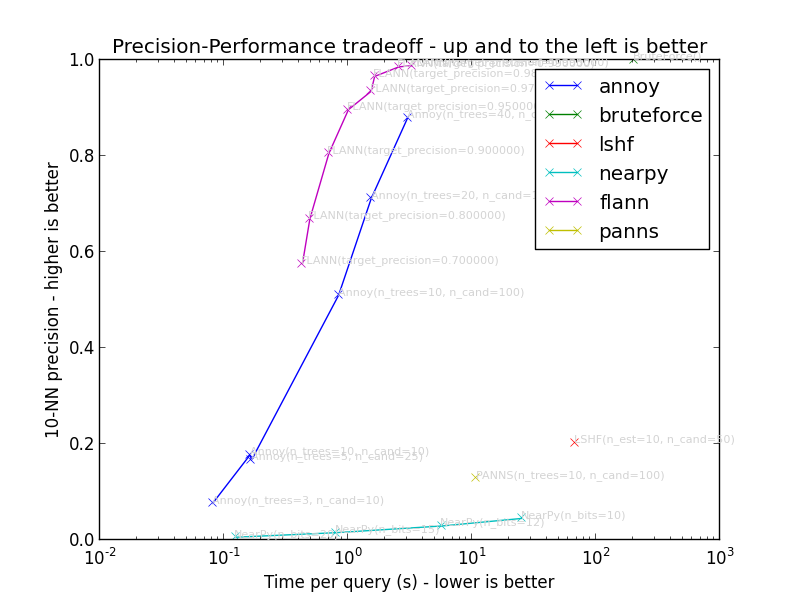
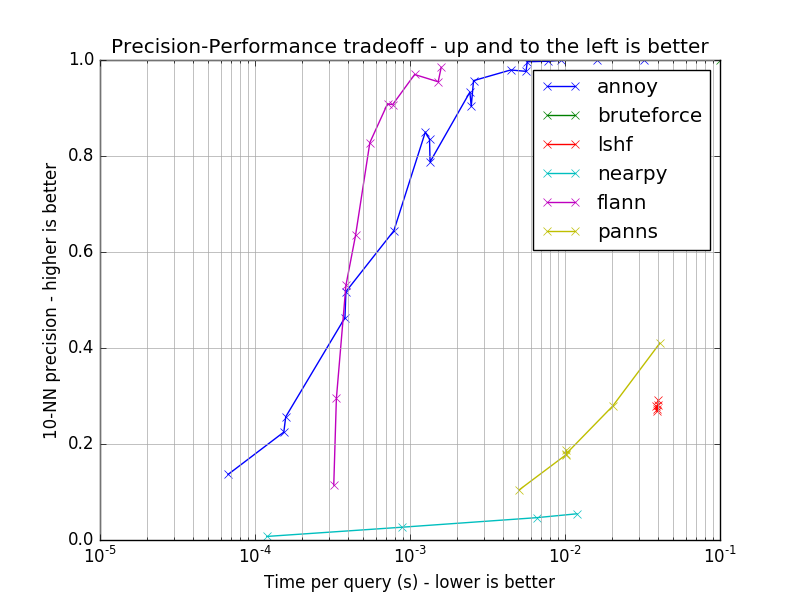
new plot

diff --git a/plot.py b/plot.py
@@ -13,14 +13,15 @@ for algo, data in all_data.iteritems():
     ys = [t[-1] for t in data]
     ls = [t[0] for t in data]
     plt.plot(xs, ys, 'x-', label=algo)
-    for i, l in enumerate(ls):
-        plt.annotate(ls[i], (xs[i], ys[i]), color='lightgray', fontsize=8)
+    #for i, l in enumerate(ls):
+    #    plt.annotate(ls[i], (xs[i], ys[i]), color='lightgray', fontsize=8)
 
 plt.gca().set_xscale('log')
 plt.gca().set_title('Precision-Performance tradeoff - up and to the left is better')
 plt.gca().set_xlabel('Time per query (s) - lower is better')
 plt.gca().set_ylabel('10-NN precision - higher is better')
 plt.gca().legend()
+plt.grid(b=True, which='both', color='0.65',linestyle='-')
 
 plt.savefig('plot.png')
 
